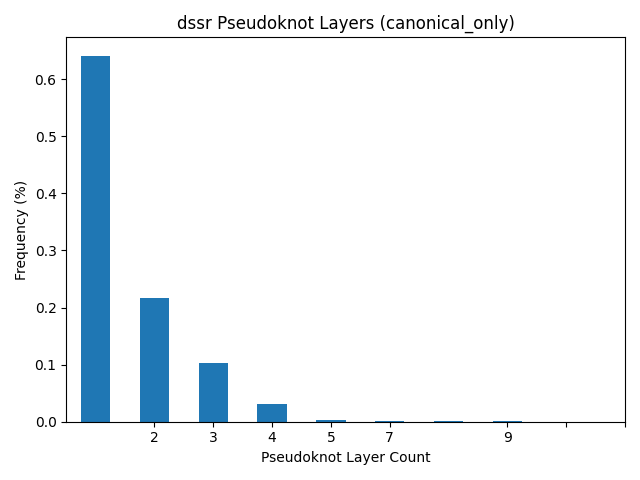
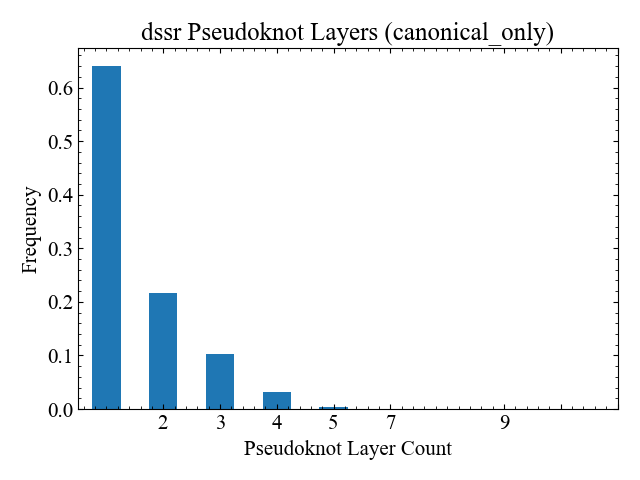
スクリプトを修正して実行した

diff --git a/analysis/pseudoknotlayer_plotting.py b/analysis/pseudoknotlayer_plotting.py
@@ -3,6 +3,7 @@ import sys
 import json
 import pandas as pd
 import matplotlib.pyplot as plt
+import matplotlib.font_manager as fm
 from pathlib import Path
 from collections import defaultdict
 
@@ -10,6 +11,65 @@ from collections import defaultdict
 parsers = ['rnaview', 'dssr']
 base_dir = Path('analysis')
 output_dir = Path('analysis/graphs')
+
+# フォント設定の改善
+def setup_fonts():
+    """利用可能なフォントを確認して設定"""
+    available_fonts = [f.name for f in fm.fontManager.ttflist]
+    
+    # 優先フォント候補
+    preferred_fonts = ['Times New Roman', 'Times', 'Liberation Serif', 'DejaVu Serif', 'serif']
+    
+    for font in preferred_fonts:
+        if font in available_fonts:
+            plt.rcParams['font.family'] = font
+            print(f"Using font: {font}")
+            break
+    else:
+        # フォールバック: デフォルトのserifフォント
+        plt.rcParams['font.family'] = 'serif'
+        print("Using default serif font")
+
+# フォント設定を実行
+setup_fonts()
+
+# matplotlib configs
+#フォント設定
+#plt.rcParams['mathtext.fontset'] = 'stix' # math fontの設定
+plt.rcParams["font.size"] = 15 # 全体のフォントサイズが変更されます。
+#plt.rcParams['xtick.labelsize'] = 9 # 軸だけ変更されます。
+#plt.rcParams['ytick.labelsize'] = 24 # 軸だけ変更されます
+
+
+#軸設定
+plt.rcParams['xtick.direction'] = 'in' #x軸の目盛りの向き
+plt.rcParams['ytick.direction'] = 'in' #y軸の目盛りの向き
+#plt.rcParams['axes.grid'] = True # グリッドの作成
+#plt.rcParams['grid.linestyle']='--' #グリッドの線種
+plt.rcParams["xtick.minor.visible"] = True  #x軸補助目盛りの追加
+plt.rcParams["ytick.minor.visible"] = True  #y軸補助目盛りの追加
+plt.rcParams['xtick.top'] = True  #x軸の上部目盛り
+plt.rcParams['ytick.right'] = True  #y軸の右部目盛り
+
+
+#軸大きさ
+#plt.rcParams["xtick.major.width"] = 1.0             #x軸主目盛り線の線幅
+#plt.rcParams["ytick.major.width"] = 1.0             #y軸主目盛り線の線幅
+#plt.rcParams["xtick.minor.width"] = 1.0             #x軸補助目盛り線の線幅
+#plt.rcParams["ytick.minor.width"] = 1.0             #y軸補助目盛り線の線幅
+#plt.rcParams["xtick.major.size"] = 10               #x軸主目盛り線の長さ
+#plt.rcParams["ytick.major.size"] = 10               #y軸主目盛り線の長さ
+#plt.rcParams["xtick.minor.size"] = 5                #x軸補助目盛り線の長さ
+#plt.rcParams["ytick.minor.size"] = 5                #y軸補助目盛り線の長さ
+#plt.rcParams["axes.linewidth"] = 1.0                #囲みの太さ
+
+
+#凡例設定
+plt.rcParams["legend.fancybox"] = False  # 丸角OFF
+plt.rcParams["legend.framealpha"] = 1  # 透明度の指定、0で塗りつぶしなし
+plt.rcParams["legend.edgecolor"] = 'black'  # edgeの色を変更
+plt.rcParams["legend.markerscale"] = 5 #markerサイズの倍率
+
 
 # 出力先ディレクトリ作成
 for parser in parsers:
@@ -65,27 +125,38 @@ for parser in parsers:
             df['is_multilayer'] = df["num_of_layers"] > 1 # 元々 multilayer かどうかの場合分けで、2 通り plotting
 
             for multilayer in [True, False]:
-                sub = df[df['is_multilayer'] == multilayer]
+                if multilayer:
+                    sub = df[df['is_multilayer'] == multilayer]
+                else:
+                    sub = df
                 can_bp_mainlayer = sub['canonical_bp_in_main_layer'] > 0
                 non_can_bp_mainlayer = sub['non_canonical_bp_in_main_layer'] > 0
-                counts = pd.Series({
+                mainlayer_counts = pd.Series({
                     'Canonical': can_bp_mainlayer.sum(),
                     'Non-Canonical': non_can_bp_mainlayer.sum()
                 })
+                pseudoknotlayer_counts = pd.Series({
+                    'Canonical': sub['canonical_bp_in_pk_layer'].sum(),
+                    'Non-Canonical': sub['non_canonical_bp_in_pk_layer'].sum()
+                })
 
-                plt.figure()
-                counts.plot.pie(
-                    autopct='%1.1f%%',
-                    labels=['Canonical', 'Non-Canonical'],
-                    startangle=90,
-                    title=f'{parser} {"Multilayer" if multilayer else "Single-layer"} ({variant})'
-                )
-                plt.ylabel('')
-                plt.tight_layout()
-                fn = f'pie_{"multilayer" if multilayer else "including_singlelayer"}_{variant}.png'
-                plt.savefig(os.path.join(output_dir, parser, fn))
-                print(f"Saved pie chart for {parser} ({variant}, {'multilayer' if multilayer else 'single-layer'}) to {output_dir / parser / fn}")
-                plt.close()
+                for counts, title in zip(
+                    [mainlayer_counts, pseudoknotlayer_counts],
+                    ['MainLayer', 'PseudoknotLayer']
+                ):
+                    plt.figure()
+                    counts.plot.pie(
+                        autopct='%1.1f%%',
+                        labels=['Canonical', 'Non-Canonical'],
+                        startangle=90,
+                        title=f'{title} {parser} {"Multilayer" if multilayer else "Single-layer"} ({variant})'
+                    )
+                    plt.ylabel('')
+                    plt.tight_layout()
+                    fn = f'pie_{title}{"multilayer" if multilayer else "including_singlelayer"}_{variant}.png'
+                    plt.savefig(os.path.join(output_dir, parser, fn))
+                    print(f"Saved pie chart for {parser} ({variant}, {'multilayer' if multilayer else 'single-layer'}) to {output_dir / parser / fn}")
+                    plt.close()
         else: 
             pass
 
@@ -95,7 +166,7 @@ for parser in parsers:
         freq.plot.bar()
         plt.xlabel('Pseudoknot Layer Count')
         plt.xticks([int(x) for x in freq.index], rotation=0)
-        plt.ylabel('Frequency (%)')
+        plt.ylabel('Frequency')
         plt.title(f'{parser} Pseudoknot Layers ({variant})')
         plt.tight_layout()
         fn = f'bar_pseudoknot_layers_{variant}.png'
